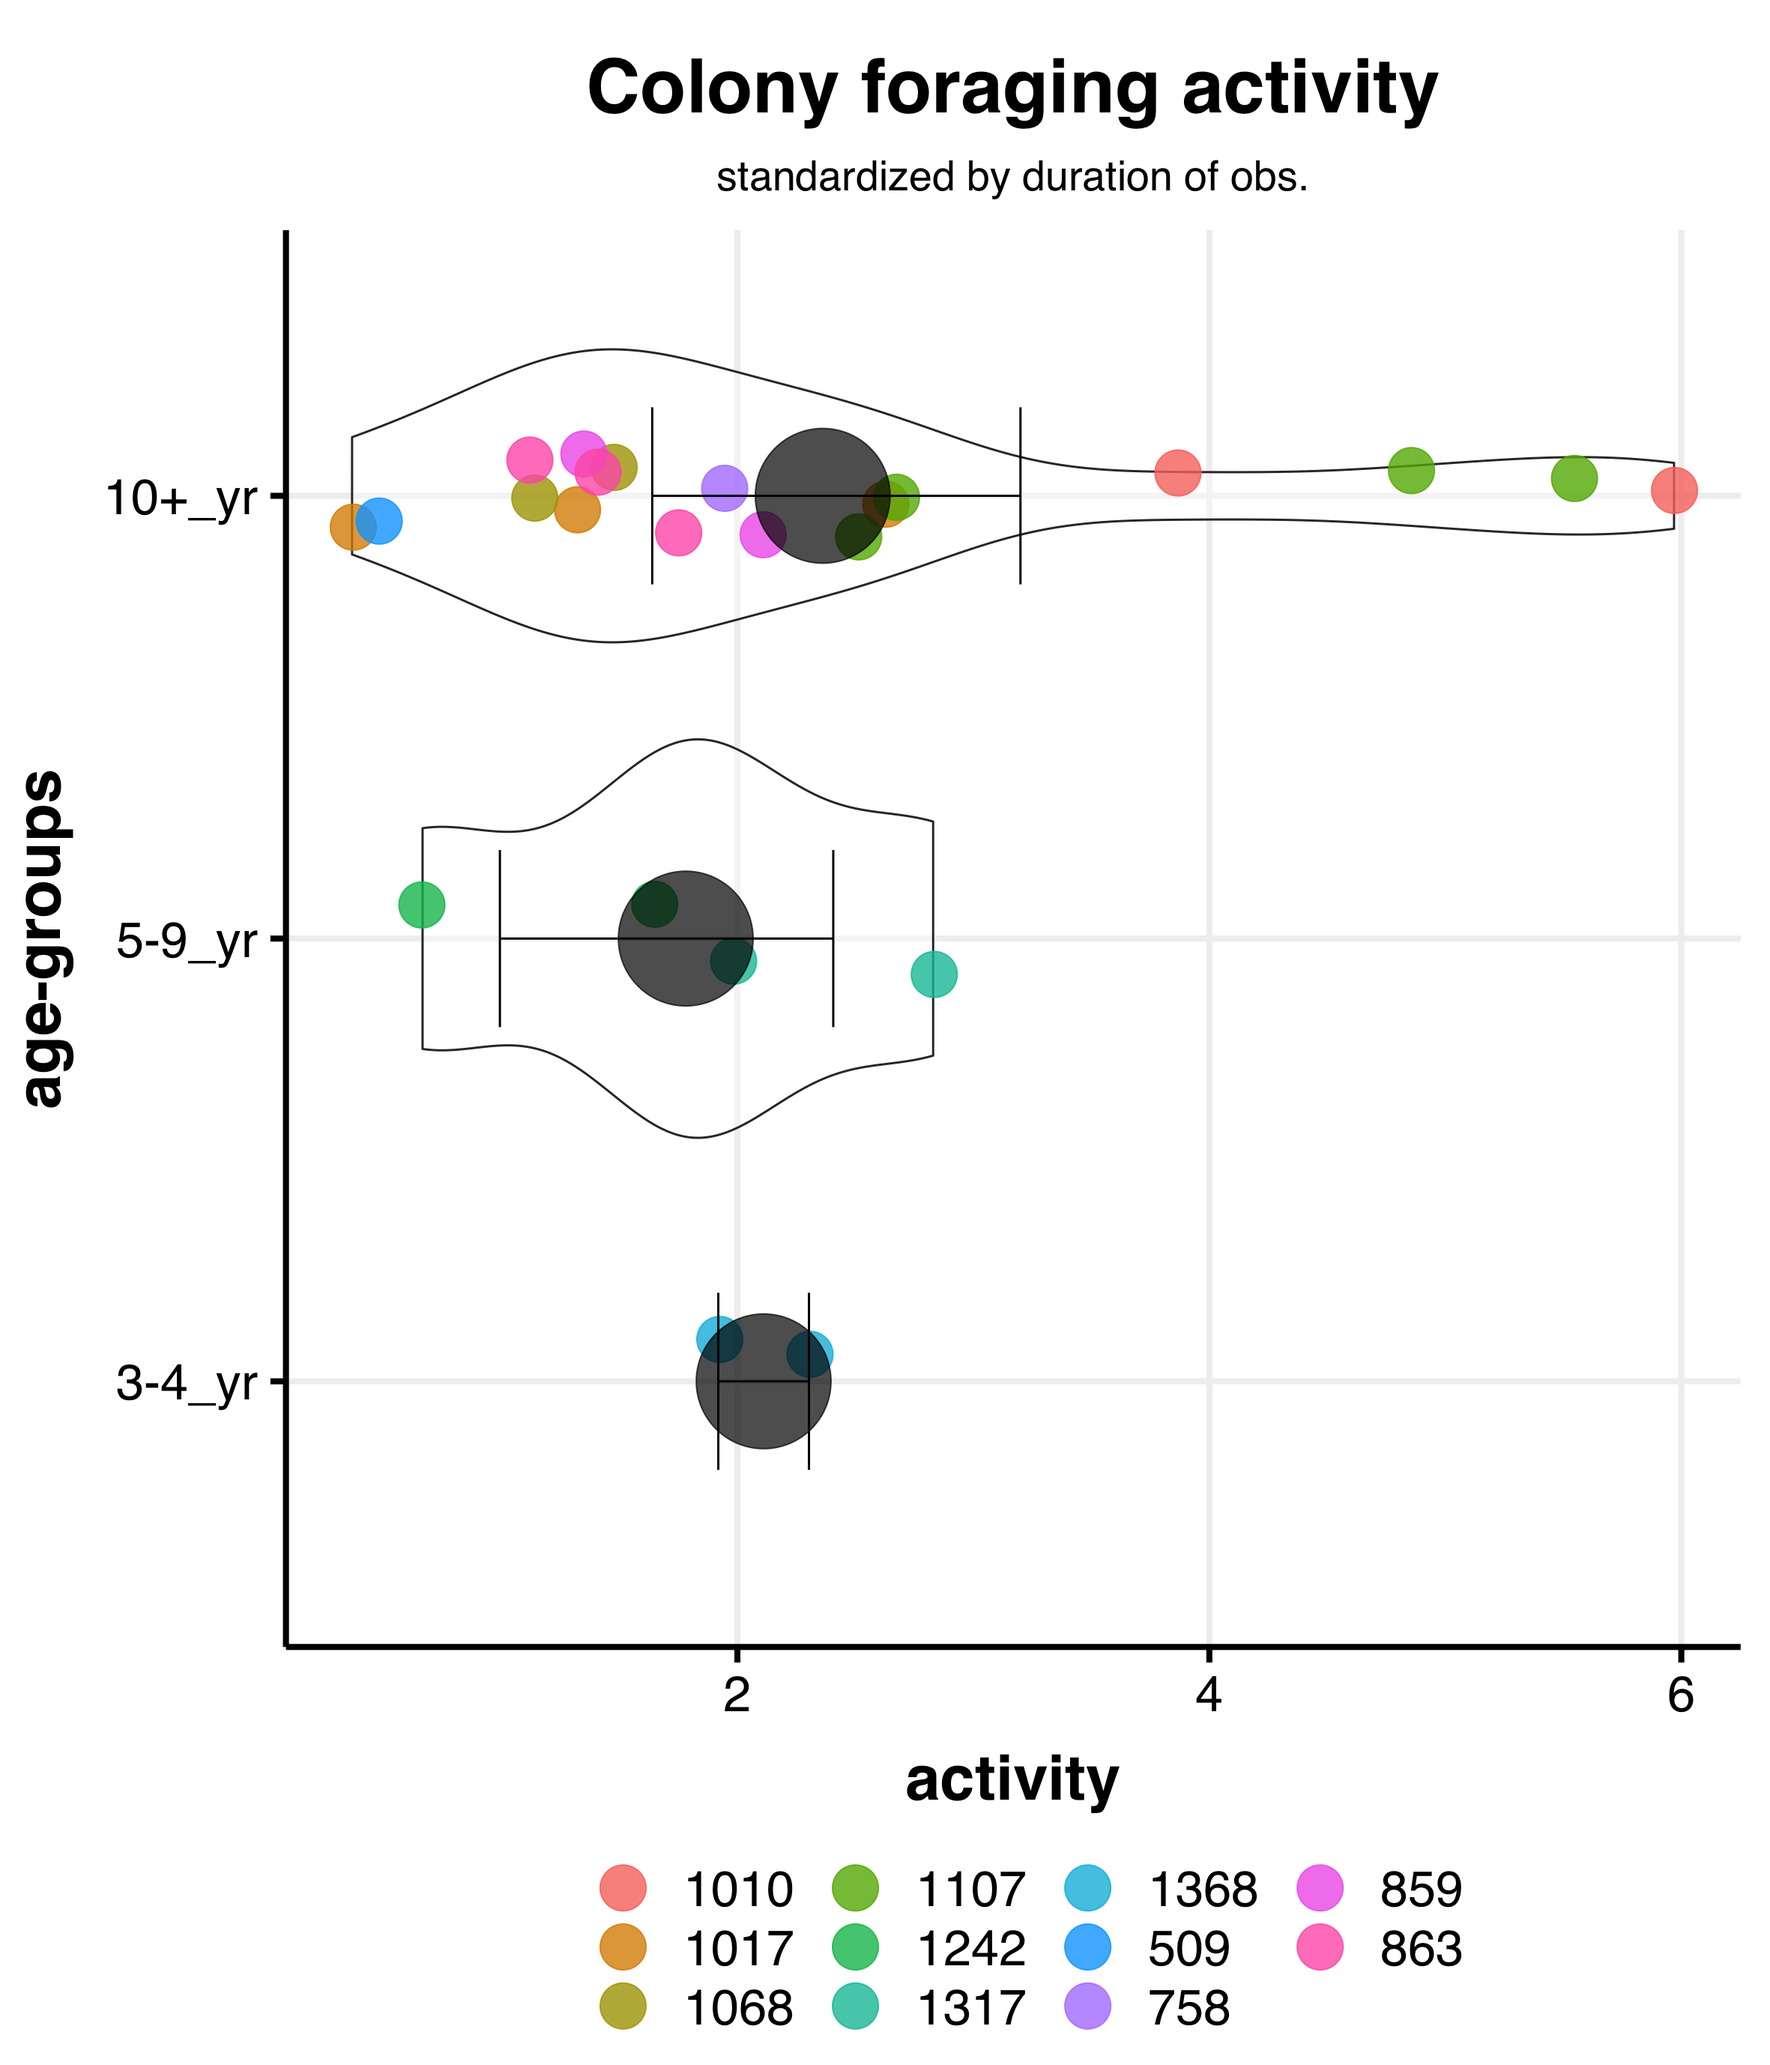
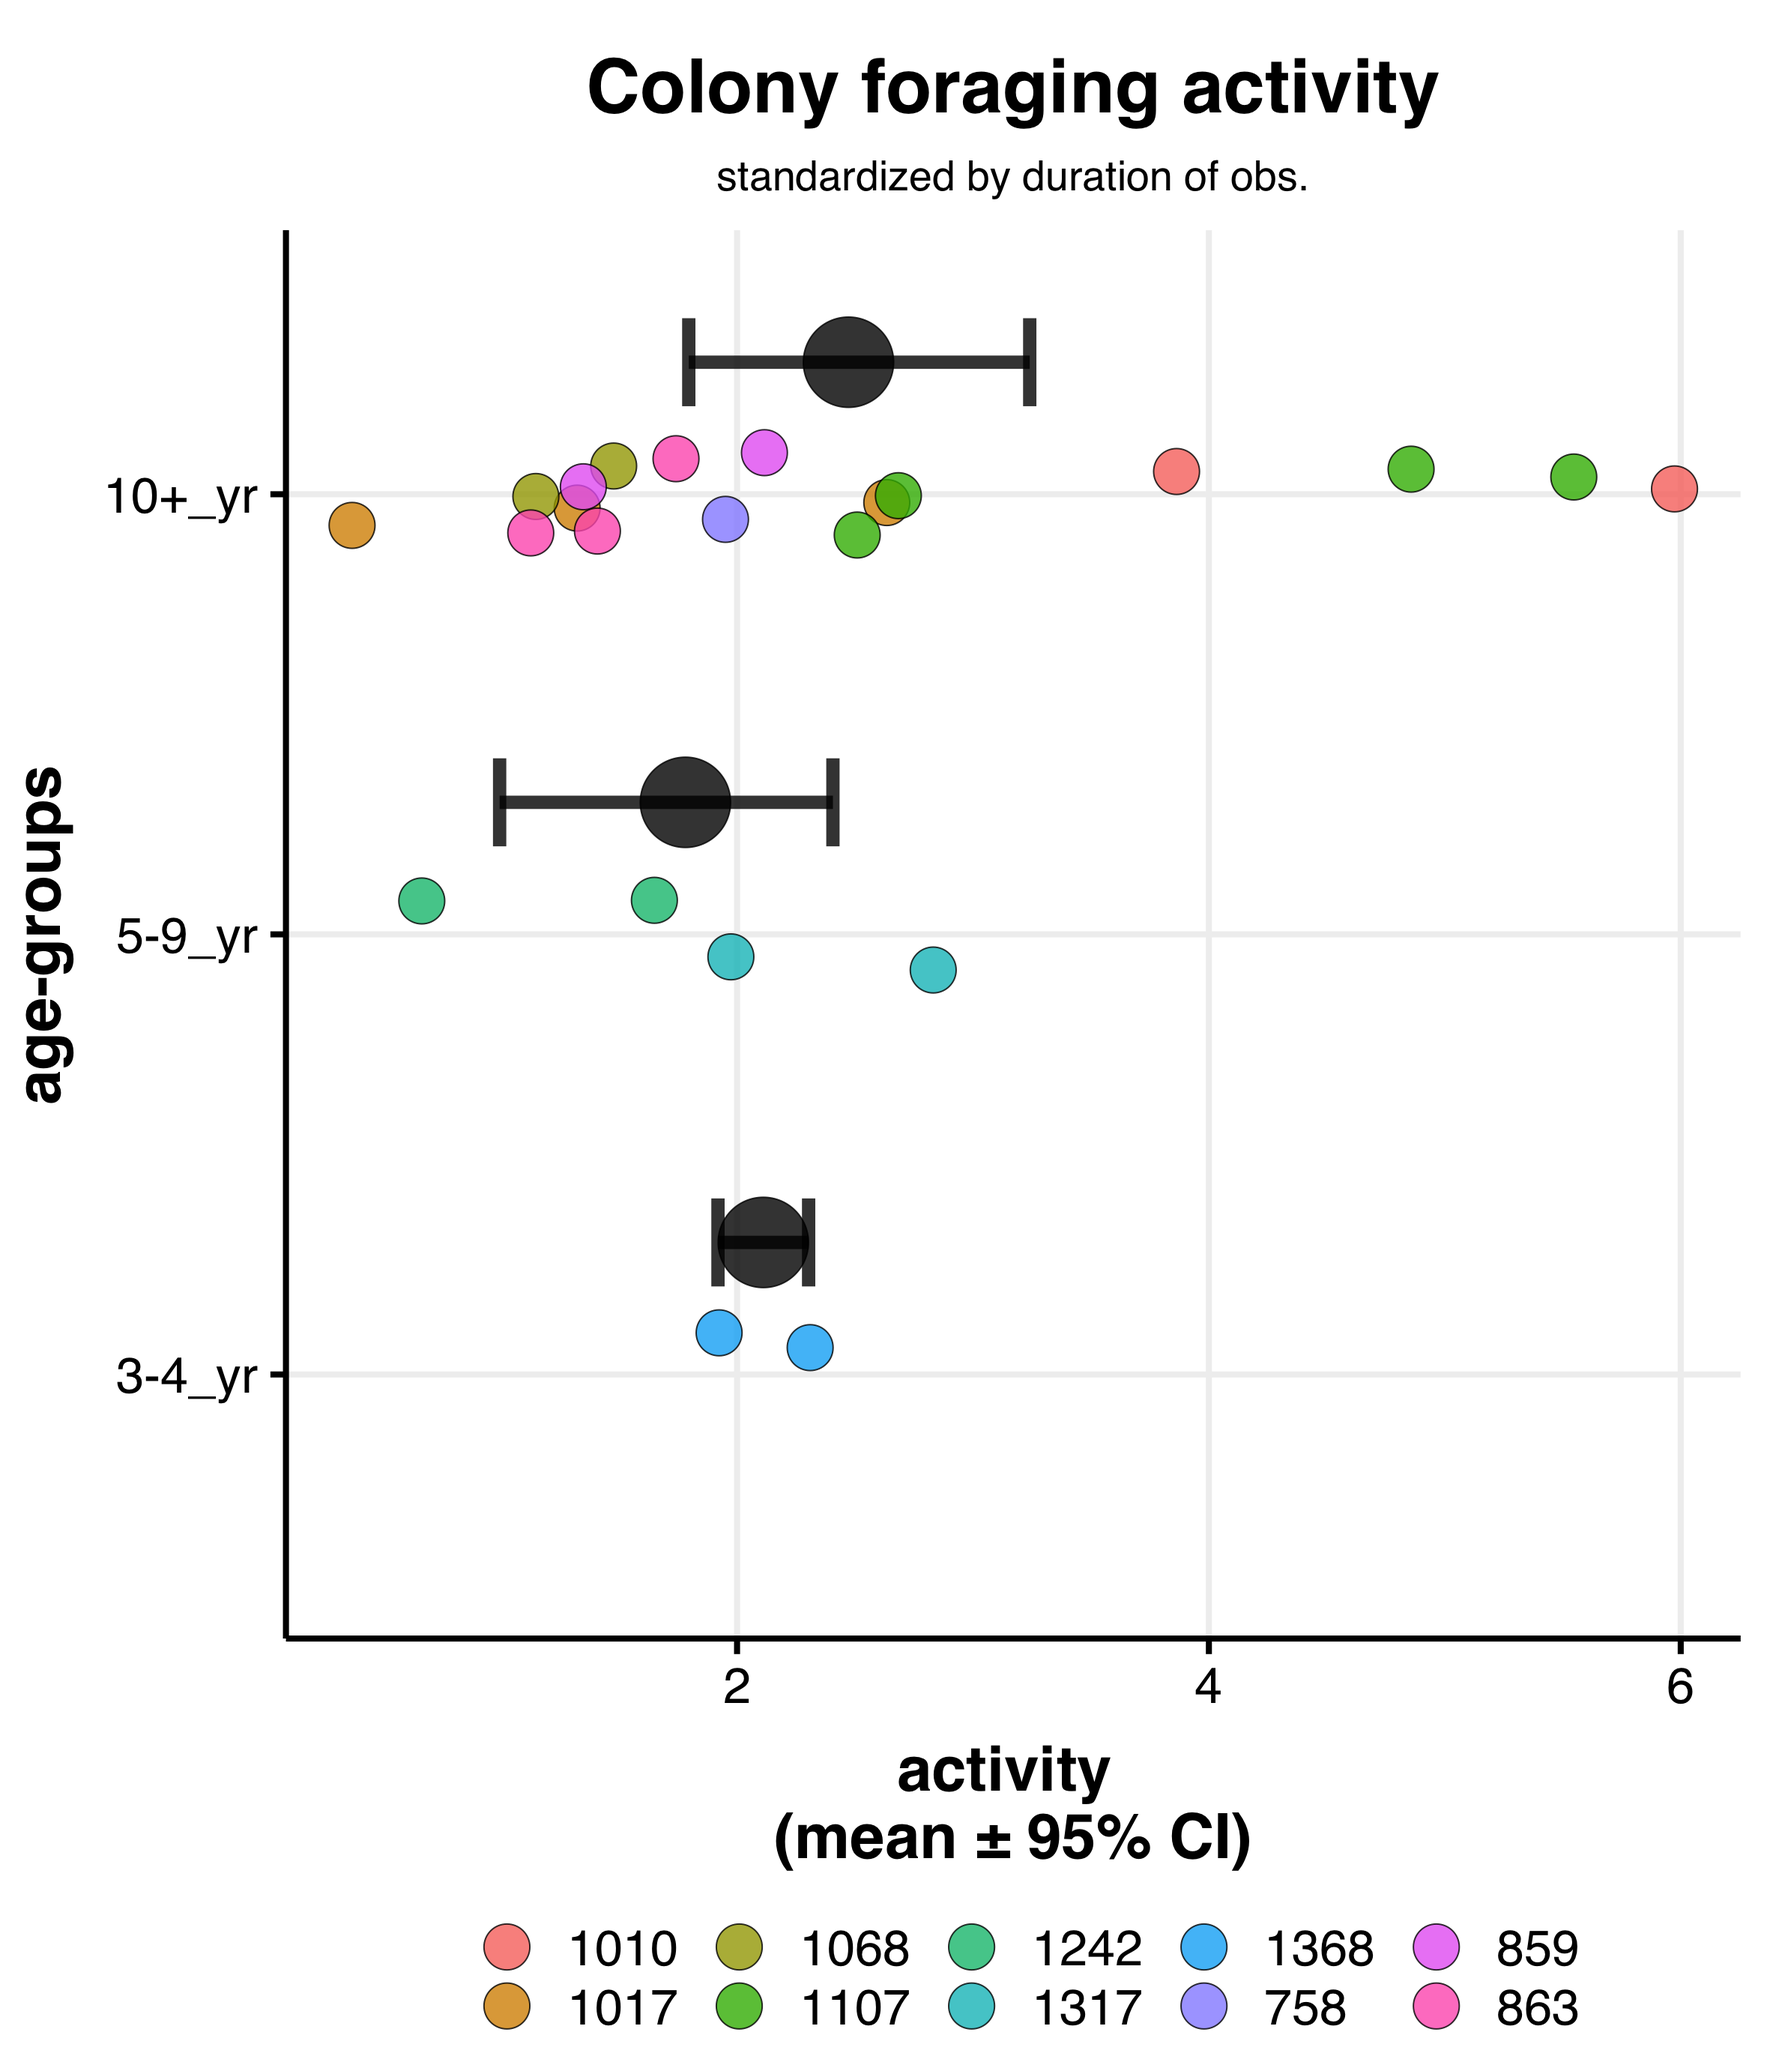
updates timecourse foraging Gordon

diff --git a/docs/timecourse_foraging_Gordon.html b/docs/timecourse_foraging_Gordon.html
@@ -1096,27 +1096,47 @@ for(i in 1:length(colonies)) {
 
 }
 
+
+## Set up the dataset for plotting
+auc.dat.plot &lt;- 
+  auc.dat %&gt;% 
+  select(colony_ID:age_class, auc, dur_mins) %&gt;% 
+  select(-t.bin) %&gt;% 
+  distinct() %&gt;% 
+  
+  left_join(summ.dat %&gt;% ungroup() %&gt;% 
+              select(colony_ID, age_when_obs), by=&quot;colony_ID&quot;) %&gt;% 
+  distinct() %&gt;% 
+  
+  ## remove colony IDs that might be outliers or not have enough data
+  filter(!colony_ID %in% c(&quot;509&quot;)) 
+
 ## Plot by age-class
 
 png(paste0(path_to_repo2,
            &quot;total_foraging_v1.png&quot;),
     width = 30, height = 35, units = &quot;cm&quot;, res = 200)
 
-auc.dat %&gt;% 
-  select(colony_ID:age_class, auc, dur_mins) %&gt;% 
-  select(-t.bin) %&gt;% 
-  distinct() %&gt;% 
+auc.dat.plot %&gt;% 
 
   ggplot(aes(x=age_class, y=auc/dur_mins)) +
-    # geom_boxplot(alpha=0.5) +
-    geom_violin(alpha = 0.4) +
+    
+    # geom_violin(alpha = 0.4) +
     # geom_point(size=2, alpha=0.7, aes(col=colony_ID)) +  
   
-    geom_jitter(width = 0.1, size=10, alpha=0.8, aes(col=as.factor(colony_ID))) +
-  
+    geom_jitter(width = 0.1, size=10, alpha=0.8, 
+                aes(fill=as.factor(colony_ID)), 
+                shape=21) +
+      
+    # geom_boxplot(alpha=0.8, size=3, color=&quot;grey60&quot;) +
+    
     stat_summary(fun = mean, geom = &quot;point&quot;, col=&quot;black&quot;, 
-                 size=30, alpha=0.7) +
-    stat_summary(fun.data = mean_cl_boot, geom = &quot;errorbar&quot;, width = 0.4) +
+                 size=20, alpha=0.8,
+                 position=position_nudge(x = 0.3, y = 0)) +
+    stat_summary(fun.data = mean_cl_boot,
+                 size=3, alpha = 0.8,
+                 geom = &quot;errorbar&quot;, width = 0.2, fun.args = list(conf.int = 0.95),
+                 position=position_nudge(x = 0.3, y = 0)) +
 
     theme_Publication(base_size = 30) +
     # theme_classic() +
@@ -1125,7 +1145,7 @@ auc.dat %&gt;%
 
     labs(title = &quot;Colony foraging activity&quot;,
        subtitle = &quot;standardized by duration of obs.&quot;,
-       y = &quot;activity&quot;,
+       y = &quot;activity \n(mean ± 95% CI)&quot;,
        x = &quot;age-groups&quot;) +
   
     scale_color_discrete() +
@@ -1147,24 +1167,37 @@ png(paste0(path_to_repo2,
            &quot;total_foraging_v2.png&quot;),
     width = 30, height = 35, units = &quot;cm&quot;, res = 200)
 
-auc.dat %&gt;% 
-  select(colony_ID:age_class, auc, dur_mins) %&gt;% 
-  select(-t.bin) %&gt;% 
-  distinct() %&gt;% 
+auc.dat.plot %&gt;% 
   
-  left_join(summ.dat %&gt;% ungroup() %&gt;% 
-              select(colony_ID, age_when_obs), by=&quot;colony_ID&quot;) %&gt;% 
-  distinct() %&gt;% 
-
   ggplot(aes(x=age_when_obs, y=auc/dur_mins)) +
     # geom_boxplot(alpha=0.5) +
     # geom_violin(alpha = 0.4) +
     # geom_point(size=2, alpha=0.7, aes(col=colony_ID)) +  
   
-    geom_jitter(width = 0.1, size=10, alpha=0.8, aes(col=as.factor(colony_ID))) +
+    # plot polynomial model fit
+    geom_smooth(method=&#39;lm&#39;,
+                formula = y ~ poly(x, 4) ,
+                col=&quot;black&quot;, alpha=0.4, size=5) +
   
-    # stat_summary(fun.data=mean_cl_normal) + 
-    geom_smooth(method=&#39;lm&#39;, col=&quot;black&quot;, alpha=0.4, size=5) +
+    # # plot loess fit
+    # geom_smooth(method=&#39;loess&#39;,
+    #             formula = y~x,
+    #             col=&quot;black&quot;, alpha=0.4, size=5) +
+  
+    # # plot generalized additive model fit
+    # geom_smooth(method = &quot;gam&quot;,
+    #             formula = y ~ s(x, bs = &quot;cs&quot;, k=5),
+    #             col=&quot;black&quot;, alpha=0.4, size=5
+    #             ) +
+
+    geom_jitter(width = 0.1, size=10, alpha=0.8, 
+                aes(fill=as.factor(colony_ID)), 
+                shape=21) +
+  
+    # add the labels to the points
+    ggrepel::geom_label_repel(aes(label = colony_ID), 
+                              segment.colour = NA,
+                              alpha=0.9) +
 
     theme_Publication(base_size = 30) +
     # theme_classic() +
@@ -1172,7 +1205,7 @@ auc.dat %&gt;%
     # scale_y_continuous(n.breaks = 3, limits = c(0,max(.$auc/.$dur_mins))) +
 
     labs(title = &quot;Colony foraging activity&quot;,
-       subtitle = &quot;standardized by duration of obs.&quot;,
+       subtitle = &quot;black line shows a fourth-order polynomial fit; y ~ poly(x, 4)&quot;,
        y = &quot;activity&quot;,
        x = &quot;age (in years)&quot;) +
   
@@ -1194,10 +1227,7 @@ png(paste0(path_to_repo2,
            &quot;total_foraging_v3.png&quot;),
     width = 30, height = 40, units = &quot;cm&quot;, res = 200)
 
-auc.dat %&gt;% 
-  select(colony_ID:age_class, auc, dur_mins) %&gt;% 
-  select(-t.bin) %&gt;% 
-  distinct() %&gt;% 
+auc.dat.plot %&gt;% 
   
   left_join(summ.dat %&gt;% ungroup() %&gt;% 
               select(colony_ID, age_when_obs), by=&quot;colony_ID&quot;) %&gt;% 
@@ -1211,8 +1241,10 @@ auc.dat %&gt;%
     geom_jitter(width = 0.1, size=10, alpha=0.8, 
                 aes(col=as.factor(colony_ID), shape=as.factor(age_class))) +
   
-    # stat_summary(fun.data=mean_cl_normal) + 
-    geom_smooth(method=&#39;lm&#39;, col=&quot;black&quot;, alpha=0.4, size=5) +
+    # add the labels to the points
+    ggrepel::geom_label_repel(aes(label = colony_ID),
+                              # segment.colour = &quot;NA&quot;,
+                              alpha=0.9) +
   
 
     theme_Publication(base_size = 30) +
